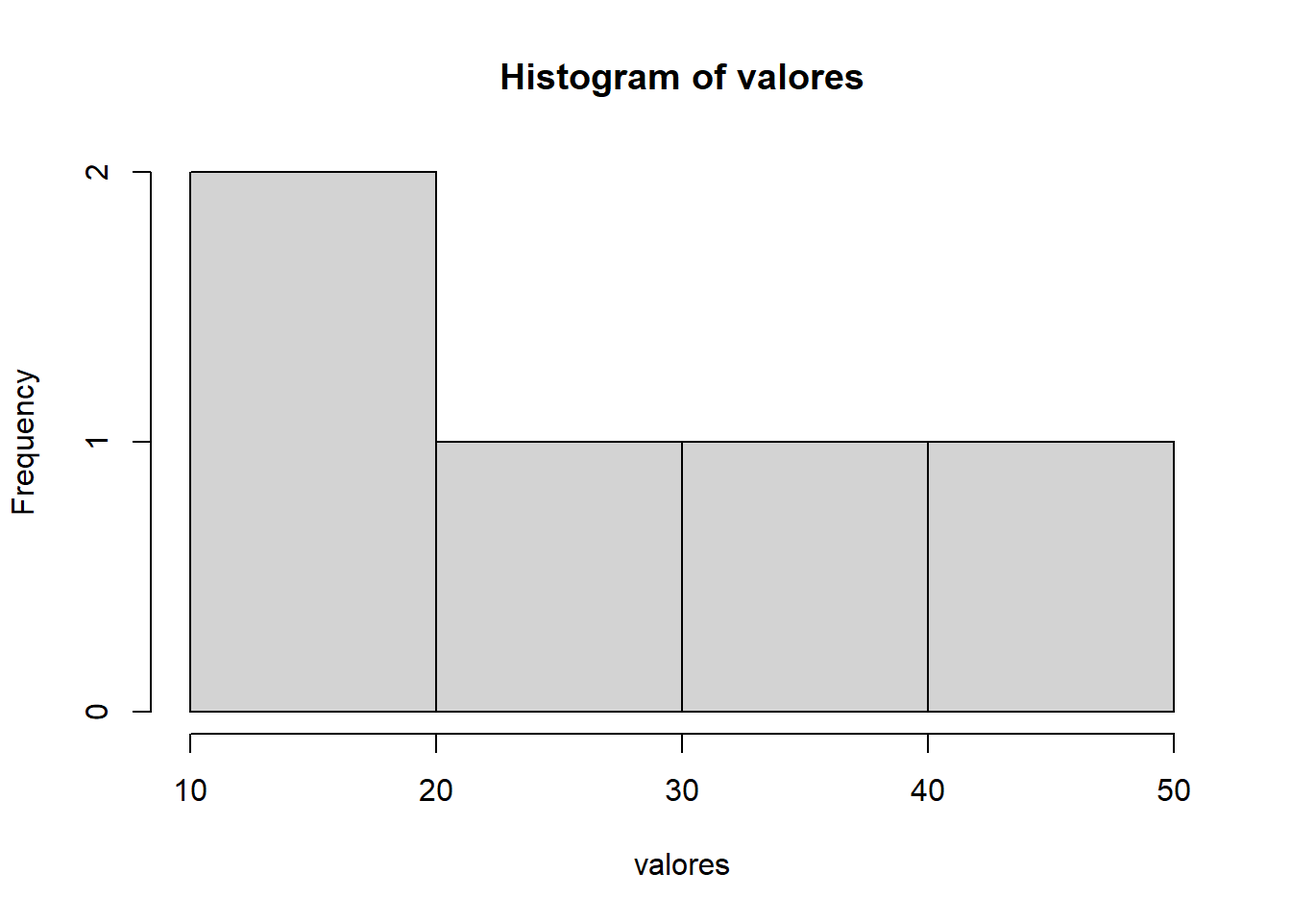
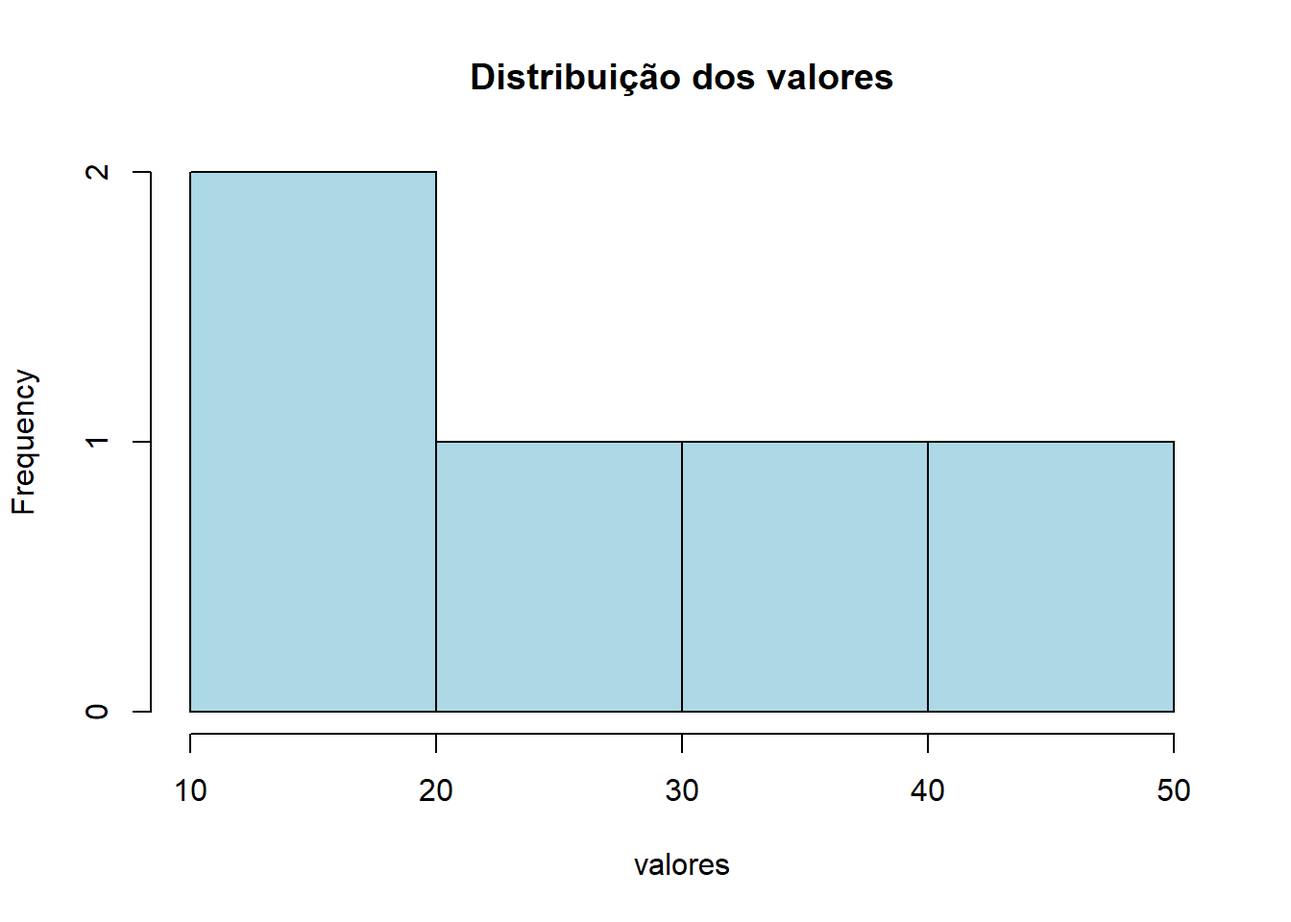
Relatório 2 - Atualizando informações finais

Changed region(s): [[0.125, 0.1875, 0.9062, 0.7812], [0.3438, 0.0625, 0.6875, 0.125]]

diff --git a/relatorio/rel02/index.html b/relatorio/rel02/index.html
@@ -88,8 +88,9 @@ pre > code.sourceCode > span > a:first-child::before { text-decoration: underlin
   <li><a href="#por-que-o-r-ficou-tão-importante" id="toc-por-que-o-r-ficou-tão-importante" class="nav-link" data-scroll-target="#por-que-o-r-ficou-tão-importante"><span class="header-section-number">3</span> POR QUE O R FICOU TÃO IMPORTANTE?</a></li>
   <li><a href="#ambiente-de-trabalho" id="toc-ambiente-de-trabalho" class="nav-link" data-scroll-target="#ambiente-de-trabalho"><span class="header-section-number">4</span> Ambiente de trabalho</a></li>
   <li><a href="#como-executar-códigos" id="toc-como-executar-códigos" class="nav-link" data-scroll-target="#como-executar-códigos"><span class="header-section-number">5</span> 💻 Como executar códigos</a></li>
-  <li><a href="#aprenda-quarto" id="toc-aprenda-quarto" class="nav-link" data-scroll-target="#aprenda-quarto"><span class="header-section-number">6</span> Aprenda Quarto</a></li>
-  <li><a href="#referências" id="toc-referências" class="nav-link" data-scroll-target="#referências"><span class="header-section-number">7</span> 📖 Referências</a></li>
+  <li><a href="#estruturas-e-tipos-de-dados" id="toc-estruturas-e-tipos-de-dados" class="nav-link" data-scroll-target="#estruturas-e-tipos-de-dados"><span class="header-section-number">6</span> 🛠 ESTRUTURAS E TIPOS DE DADOS</a></li>
+  <li><a href="#aprenda-quarto" id="toc-aprenda-quarto" class="nav-link" data-scroll-target="#aprenda-quarto"><span class="header-section-number">7</span> Aprenda Quarto</a></li>
+  <li><a href="#referências" id="toc-referências" class="nav-link" data-scroll-target="#referências"><span class="header-section-number">8</span> 📖 Referências</a></li>
   </ul>
 </nav>
 </div>
@@ -123,7 +124,7 @@ pre > code.sourceCode > span > a:first-child::before { text-decoration: underlin
     <div>
     <div class="quarto-title-meta-heading">Data de Publicação</div>
     <div class="quarto-title-meta-contents">
-      <p class="date">01/04/2026, 21:23</p>
+      <p class="date">01/04/2026, 22:32</p>
     </div>
   </div>
   
@@ -196,12 +197,76 @@ pre > code.sourceCode > span > a:first-child::before { text-decoration: underlin
 </div>
 <p>5.3 O código acima cria um vetor numérico de tamanho 5 e calcula a sua média, demonstrando uma das funções básicas da linguagem R.</p>
 </section>
-<section id="aprenda-quarto" class="level2" data-number="6">
-<h2 data-number="6" class="anchored" data-anchor-id="aprenda-quarto"><span class="header-section-number">6</span> Aprenda Quarto</h2>
+<section id="estruturas-e-tipos-de-dados" class="level2" data-number="6">
+<h2 data-number="6" class="anchored" data-anchor-id="estruturas-e-tipos-de-dados"><span class="header-section-number">6</span> 🛠 ESTRUTURAS E TIPOS DE DADOS</h2>
+<p>6.1 Para programar em R, é fundamental entender como a linguagem organiza as informações. Os principais tipos de dados “atômicos” são:</p>
+<ul>
+<li>Numeric: Números decimais (ex: 10.5);</li>
+<li>Integer: Números inteiros (ex: 10L);</li>
+<li>Logical: Valores booleanos (TRUE ou FALSE);</li>
+<li>Character: Textos ou strings (ex: “Olá Mundo”);</li>
+</ul>
+<p>6.2 Além dos tipos simples, o R utiliza estruturas complexas para armazenar conjuntos de dados:</p>
+<ul>
+<li>Vector: Sequência de elementos do mesmo tipo;</li>
+<li>Matrix: Tabela bidimensional com elementos do mesmo tipo;</li>
+<li>Data Frame: Tabela onde cada coluna pode ter um tipo diferente (mais usada em Ciência de Dados);</li>
+<li>List: Coleção de objetos que podem ter diferentes tipos e tamanhos.</li>
+</ul>
+<div class="cell">
+<details class="code-fold">
+<summary>Código</summary>
+<div class="code-copy-outer-scaffold"><div class="sourceCode cell-code" id="cb3"><pre class="sourceCode r code-with-copy"><code class="sourceCode r"><span id="cb3-1"><a href="#cb3-1" aria-hidden="true" tabindex="-1"></a><span class="fu">library</span>(leem)</span>
+<span id="cb3-2"><a href="#cb3-2" aria-hidden="true" tabindex="-1"></a></span>
+<span id="cb3-3"><a href="#cb3-3" aria-hidden="true" tabindex="-1"></a>valores <span class="ot">&lt;-</span> <span class="fu">c</span>(<span class="dv">10</span>,<span class="dv">20</span>,<span class="dv">30</span>,<span class="dv">40</span>,<span class="dv">50</span>)</span>
+<span id="cb3-4"><a href="#cb3-4" aria-hidden="true" tabindex="-1"></a></span>
+<span id="cb3-5"><a href="#cb3-5" aria-hidden="true" tabindex="-1"></a>valores <span class="sc">|&gt;</span></span>
+<span id="cb3-6"><a href="#cb3-6" aria-hidden="true" tabindex="-1"></a>  <span class="fu">new_leem</span>(<span class="at">variable =</span> <span class="dv">2</span>) <span class="sc">|&gt;</span></span>
+<span id="cb3-7"><a href="#cb3-7" aria-hidden="true" tabindex="-1"></a>  <span class="fu">tabfreq</span>()</span></code></pre></div><button title="Copiar para a área de transferência" class="code-copy-button"><i class="bi"></i></button></div>
+</details>
+<div class="cell-output cell-output-stdout">
+<pre><code>
+Table of frequency 
+Type of variable: continuous
+
+       Classes Fi PM  Fr Fac1 Fac2 Fp Fac1p Fac2p
+1 -10 |---  30  2 10 0.4    2    5 40    40   100
+2  30 |---  70  3 50 0.6    5    3 60   100    60
+
+============================================== 
+Classes: Grouping of classes 
+Fi: Absolute frequency 
+PM: Midpoint 
+Fr: Relative frequency 
+Fac1: Cumulative frequency (below) 
+Fac2: Cumulative frequency (above) 
+Fp: Percentage frequency 
+Fac1p: Cumulative percentage frequency (below) 
+Fac2p: Cumulative percentage frequency (above) </code></pre>
+</div>
+<details class="code-fold">
+<summary>Código</summary>
+<div class="code-copy-outer-scaffold"><div class="sourceCode cell-code" id="cb5"><pre class="sourceCode r code-with-copy"><code class="sourceCode r"><span id="cb5-1"><a href="#cb5-1" aria-hidden="true" tabindex="-1"></a><span class="fu">hist</span>(valores, <span class="at">main =</span> <span class="st">"Distribuição dos valores"</span>, <span class="at">col =</span> <span class="st">"lightblue"</span>)</span></code></pre></div><button title="Copiar para a área de transferência" class="code-copy-button"><i class="bi"></i></button></div>
+</details>
+<div class="cell-output-display">
+<div>
+<figure class="figure">
+<p><img src="index_files/figure-html/unnamed-chunk-2-1.png" class="img-fluid figure-img" width="672"></p>
+</figure>
+</div>
+</div>
+</div>
+</section>
+<section id="aprenda-quarto" class="level2" data-number="7">
+<h2 data-number="7" class="anchored" data-anchor-id="aprenda-quarto"><span class="header-section-number">7</span> Aprenda Quarto</h2>
 <p>Acesse <a href="https://quarto.org/">Quarto</a>.</p>
 </section>
-<section id="referências" class="level2" data-number="7">
-<h2 data-number="7" class="anchored" data-anchor-id="referências"><span class="header-section-number">7</span> 📖 Referências</h2>
+<section id="referências" class="level2" data-number="8">
+<h2 data-number="8" class="anchored" data-anchor-id="referências"><span class="header-section-number">8</span> 📖 Referências</h2>
+<ul>
+<li>[1] <em>The R Project for Statistical Computing</em>. Disponível em: <a href="https://www.r-project.org/" class="uri">https://www.r-project.org/</a>.</li>
+<li>[2] <em>RStudio Official site</em>. Disponível em: <a href="https://posit.co/download/rstudio-desktop/" class="uri">https://posit.co/download/rstudio-desktop/</a>.</li>
+</ul>
 <!-- -->
 
 </section>
@@ -659,100 +724,135 @@ pre > code.sourceCode > span > a:first-child::before { text-decoration: underlin
     }
   });
   </script><div class="modal fade" id="quarto-embedded-source-code-modal" tabindex="-1" aria-labelledby="quarto-embedded-source-code-modal-label" aria-hidden="true"><div class="modal-dialog modal-dialog-scrollable"><div class="modal-content"><div class="modal-header"><h5 class="modal-title" id="quarto-embedded-source-code-modal-label">Código fonte</h5><button class="btn-close" data-bs-dismiss="modal"></button></div><div class="modal-body"><div class="">
-<div class="code-copy-outer-scaffold"><div class="sourceCode" id="cb3" data-shortcodes="false"><pre class="sourceCode markdown code-with-copy"><code class="sourceCode markdown"><span id="cb3-1"><a href="#cb3-1" aria-hidden="true" tabindex="-1"></a><span class="co">---</span></span>
-<span id="cb3-2"><a href="#cb3-2" aria-hidden="true" tabindex="-1"></a><span class="co"># Só mude aqui!!!!</span></span>
-<span id="cb3-3"><a href="#cb3-3" aria-hidden="true" tabindex="-1"></a><span class="an">author:</span><span class="co"> "Igor e Lucas"</span></span>
-<span id="cb3-4"><a href="#cb3-4" aria-hidden="true" tabindex="-1"></a><span class="an">title:</span><span class="co"> "Relatório sobre a linguagem R"</span></span>
-<span id="cb3-5"><a href="#cb3-5" aria-hidden="true" tabindex="-1"></a><span class="an">bibliography:</span><span class="co"> referencias.bib</span></span>
-<span id="cb3-6"><a href="#cb3-6" aria-hidden="true" tabindex="-1"></a><span class="co"># A partir daqui nao faca alteracoes!!!!!</span></span>
-<span id="cb3-7"><a href="#cb3-7" aria-hidden="true" tabindex="-1"></a><span class="an">link-citations:</span><span class="co"> true</span></span>
-<span id="cb3-8"><a href="#cb3-8" aria-hidden="true" tabindex="-1"></a><span class="an">csl:</span><span class="co"> associacao-brasileira-de-normas-tecnicas-ipea.csl</span></span>
-<span id="cb3-9"><a href="#cb3-9" aria-hidden="true" tabindex="-1"></a><span class="an">subtitle:</span><span class="co"> "&lt;a href='https://bendeivide.github.io/courses/epaec/' target='_blank'&gt;Estatística e Probabilidade&lt;/a&gt; &lt;/br&gt; &lt;a href='https://bendeivide.github.io' target='_blank'&gt;Prof. Ben Dêivide (DEFIM/CAP/UFSJ)&lt;/a&gt;"</span></span>
-<span id="cb3-10"><a href="#cb3-10" aria-hidden="true" tabindex="-1"></a><span class="an">include-before-body:</span><span class="co"> header.html</span></span>
-<span id="cb3-11"><a href="#cb3-11" aria-hidden="true" tabindex="-1"></a><span class="an">date:</span><span class="co"> now</span></span>
-<span id="cb3-12"><a href="#cb3-12" aria-hidden="true" tabindex="-1"></a><span class="an">date-format:</span><span class="co"> "DD/MM/YYYY, HH:mm"</span></span>
-<span id="cb3-13"><a href="#cb3-13" aria-hidden="true" tabindex="-1"></a><span class="an">lang:</span><span class="co"> pt-BR</span></span>
-<span id="cb3-14"><a href="#cb3-14" aria-hidden="true" tabindex="-1"></a><span class="an">format:</span></span>
-<span id="cb3-15"><a href="#cb3-15" aria-hidden="true" tabindex="-1"></a><span class="co">  html:</span></span>
-<span id="cb3-16"><a href="#cb3-16" aria-hidden="true" tabindex="-1"></a><span class="co">    toc: true</span></span>
-<span id="cb3-17"><a href="#cb3-17" aria-hidden="true" tabindex="-1"></a><span class="co">    number-sections: true</span></span>
-<span id="cb3-18"><a href="#cb3-18" aria-hidden="true" tabindex="-1"></a><span class="co">    theme: bootstrap</span></span>
-<span id="cb3-19"><a href="#cb3-19" aria-hidden="true" tabindex="-1"></a><span class="co">    #css: styles.css</span></span>
-<span id="cb3-20"><a href="#cb3-20" aria-hidden="true" tabindex="-1"></a><span class="co">    code-fold: true</span></span>
-<span id="cb3-21"><a href="#cb3-21" aria-hidden="true" tabindex="-1"></a><span class="co">    code-tools: true</span></span>
-<span id="cb3-22"><a href="#cb3-22" aria-hidden="true" tabindex="-1"></a><span class="an">execute:</span></span>
-<span id="cb3-23"><a href="#cb3-23" aria-hidden="true" tabindex="-1"></a><span class="co">  echo: true</span></span>
-<span id="cb3-24"><a href="#cb3-24" aria-hidden="true" tabindex="-1"></a><span class="co">  warning: false</span></span>
-<span id="cb3-25"><a href="#cb3-25" aria-hidden="true" tabindex="-1"></a><span class="co">  message: false</span></span>
-<span id="cb3-26"><a href="#cb3-26" aria-hidden="true" tabindex="-1"></a><span class="co">---</span></span>
-<span id="cb3-27"><a href="#cb3-27" aria-hidden="true" tabindex="-1"></a></span>
-<span id="cb3-28"><a href="#cb3-28" aria-hidden="true" tabindex="-1"></a></span>
-<span id="cb3-29"><a href="#cb3-29" aria-hidden="true" tabindex="-1"></a><span class="fu">## 📌 Introdução</span></span>
-<span id="cb3-30"><a href="#cb3-30" aria-hidden="true" tabindex="-1"></a></span>
-<span id="cb3-31"><a href="#cb3-31" aria-hidden="true" tabindex="-1"></a>A linguagem <span class="co">[</span><span class="ot">R</span><span class="co">](https://www.r-project.org/)</span> foi criada em 1993, por Ross Ihaka e Robert Gentleman na <span class="co">[</span><span class="ot">University of Auckland</span><span class="co">](https://www.auckland.ac.nz/en.html)</span>.</span>
-<span id="cb3-32"><a href="#cb3-32" aria-hidden="true" tabindex="-1"></a></span>
-<span id="cb3-33"><a href="#cb3-33" aria-hidden="true" tabindex="-1"></a><span class="fu">## ❓ POR QUAL MOTIVO A LINGUAGEM R FOI CRIADA?</span></span>
-<span id="cb3-34"><a href="#cb3-34" aria-hidden="true" tabindex="-1"></a></span>
-<span id="cb3-35"><a href="#cb3-35" aria-hidden="true" tabindex="-1"></a>2 O principal objetivo era criar uma linguagem para:</span>
-<span id="cb3-36"><a href="#cb3-36" aria-hidden="true" tabindex="-1"></a></span>
-<span id="cb3-37"><a href="#cb3-37" aria-hidden="true" tabindex="-1"></a><span class="ss">- </span>A área de estatística e análise de dados;</span>
-<span id="cb3-38"><a href="#cb3-38" aria-hidden="true" tabindex="-1"></a><span class="ss">- </span>De fácil uso tanto para pesquisadores quanto para estudantes;</span>
-<span id="cb3-39"><a href="#cb3-39" aria-hidden="true" tabindex="-1"></a><span class="ss">- </span>E ser uma linguagem gratuita e de código aberto;</span>
-<span id="cb3-40"><a href="#cb3-40" aria-hidden="true" tabindex="-1"></a></span>
-<span id="cb3-41"><a href="#cb3-41" aria-hidden="true" tabindex="-1"></a>2.1 Antes de sua criação, muitos softwares estatísticos eram caros e fechados, como a linguagem <span class="co">[</span><span class="ot">S</span><span class="co">]</span>(https://en.wikipedia.org/wiki/S_(programming_language))     (que inspirou o desenvolvimento da linguagem R). </span>
-<span id="cb3-42"><a href="#cb3-42" aria-hidden="true" tabindex="-1"></a></span>
-<span id="cb3-43"><a href="#cb3-43" aria-hidden="true" tabindex="-1"></a>2.2 Logo o R surgiu como uma alternativa mais flexível e bastante importante que acompanhou as demandas científicas modernas.</span>
-<span id="cb3-44"><a href="#cb3-44" aria-hidden="true" tabindex="-1"></a></span>
-<span id="cb3-45"><a href="#cb3-45" aria-hidden="true" tabindex="-1"></a><span class="fu">## POR QUE O R FICOU TÃO IMPORTANTE?</span></span>
-<span id="cb3-46"><a href="#cb3-46" aria-hidden="true" tabindex="-1"></a></span>
-<span id="cb3-47"><a href="#cb3-47" aria-hidden="true" tabindex="-1"></a>3.1 Hoje em dia com o grande avanço da tecnologia e da inteligência artificial, a linguagem R está sendo muito usada para: </span>
-<span id="cb3-48"><a href="#cb3-48" aria-hidden="true" tabindex="-1"></a></span>
-<span id="cb3-49"><a href="#cb3-49" aria-hidden="true" tabindex="-1"></a><span class="ss">- </span>Machine Learning;</span>
-<span id="cb3-50"><a href="#cb3-50" aria-hidden="true" tabindex="-1"></a><span class="ss">- </span>Ciência de dados e estatística;</span>
-<span id="cb3-51"><a href="#cb3-51" aria-hidden="true" tabindex="-1"></a><span class="ss">- </span>Pesquisas e práticas acadêmicas;</span>
-<span id="cb3-52"><a href="#cb3-52" aria-hidden="true" tabindex="-1"></a></span>
-<span id="cb3-53"><a href="#cb3-53" aria-hidden="true" tabindex="-1"></a>3.2 A linguagem R conseguiu se adaptar de maneira rápida ao cenário atual graças às suas milhares de bibliotecas, bem como às suas capacidades de geração gráfica e análise.</span>
-<span id="cb3-54"><a href="#cb3-54" aria-hidden="true" tabindex="-1"></a></span>
-<span id="cb3-55"><a href="#cb3-55" aria-hidden="true" tabindex="-1"></a></span>
-<span id="cb3-56"><a href="#cb3-56" aria-hidden="true" tabindex="-1"></a><span class="fu">## Ambiente de trabalho</span></span>
-<span id="cb3-57"><a href="#cb3-57" aria-hidden="true" tabindex="-1"></a></span>
-<span id="cb3-58"><a href="#cb3-58" aria-hidden="true" tabindex="-1"></a>4.1 A linguagem R é o sistema responsável por fazer os cálculos, manipular os dados e apresenta as bibliotecas.</span>
-<span id="cb3-59"><a href="#cb3-59" aria-hidden="true" tabindex="-1"></a></span>
-<span id="cb3-60"><a href="#cb3-60" aria-hidden="true" tabindex="-1"></a>4.2 Já o RStudio é o ambiente de trabalho conhecido como IDE, que oferece uma interface mais organizada e separada.</span>
-<span id="cb3-61"><a href="#cb3-61" aria-hidden="true" tabindex="-1"></a></span>
-<span id="cb3-62"><a href="#cb3-62" aria-hidden="true" tabindex="-1"></a><span class="al">![Figura 1 - Imagem do RStudio](Imagem para a Introdução do R.png)</span> </span>
-<span id="cb3-63"><a href="#cb3-63" aria-hidden="true" tabindex="-1"></a></span>
-<span id="cb3-64"><a href="#cb3-64" aria-hidden="true" tabindex="-1"></a>4.3 Na figura 1, é possível observar as divisões por quadrantes no RStudio, no qual: </span>
-<span id="cb3-65"><a href="#cb3-65" aria-hidden="true" tabindex="-1"></a></span>
-<span id="cb3-66"><a href="#cb3-66" aria-hidden="true" tabindex="-1"></a>1) Corresponde a área de criação dos scripts;</span>
-<span id="cb3-67"><a href="#cb3-67" aria-hidden="true" tabindex="-1"></a>2) Representa o painel Environment, onde são exibidas as variáveis carregadas na sessão;</span>
-<span id="cb3-68"><a href="#cb3-68" aria-hidden="true" tabindex="-1"></a>3) Indica o console, a onde pode ser executado comandos de maneira direta;</span>
-<span id="cb3-69"><a href="#cb3-69" aria-hidden="true" tabindex="-1"></a>4) Corresponde ao painel de Viewer,Packages,Help,Files,utilizados para a instalação de pacotes, gerenciamento de arquivos e visualização dos dados.</span>
-<span id="cb3-70"><a href="#cb3-70" aria-hidden="true" tabindex="-1"></a></span>
-<span id="cb3-71"><a href="#cb3-71" aria-hidden="true" tabindex="-1"></a></span>
-<span id="cb3-72"><a href="#cb3-72" aria-hidden="true" tabindex="-1"></a><span class="fu">## 💻 Como executar códigos</span></span>
-<span id="cb3-73"><a href="#cb3-73" aria-hidden="true" tabindex="-1"></a></span>
-<span id="cb3-74"><a href="#cb3-74" aria-hidden="true" tabindex="-1"></a>5.1 Os códigos na linguagem R podem ser executados tanto por scripts quanto pelo console no RStudio.</span>
-<span id="cb3-75"><a href="#cb3-75" aria-hidden="true" tabindex="-1"></a></span>
-<span id="cb3-76"><a href="#cb3-76" aria-hidden="true" tabindex="-1"></a>5.2 A seguir, será representado um código simples:</span>
-<span id="cb3-77"><a href="#cb3-77" aria-hidden="true" tabindex="-1"></a></span>
-<span id="cb3-80"><a href="#cb3-80" aria-hidden="true" tabindex="-1"></a><span class="in">```{r}</span></span>
-<span id="cb3-81"><a href="#cb3-81" aria-hidden="true" tabindex="-1"></a><span class="fu">library</span>(leem)</span>
-<span id="cb3-82"><a href="#cb3-82" aria-hidden="true" tabindex="-1"></a></span>
-<span id="cb3-83"><a href="#cb3-83" aria-hidden="true" tabindex="-1"></a>x <span class="ot">&lt;-</span> <span class="fu">c</span>(<span class="dv">1</span>, <span class="dv">2</span>, <span class="dv">3</span>, <span class="dv">4</span>, <span class="dv">5</span>)</span>
-<span id="cb3-84"><a href="#cb3-84" aria-hidden="true" tabindex="-1"></a><span class="fu">mean</span>(x)</span>
-<span id="cb3-85"><a href="#cb3-85" aria-hidden="true" tabindex="-1"></a></span>
-<span id="cb3-86"><a href="#cb3-86" aria-hidden="true" tabindex="-1"></a><span class="in">```</span></span>
-<span id="cb3-87"><a href="#cb3-87" aria-hidden="true" tabindex="-1"></a></span>
-<span id="cb3-88"><a href="#cb3-88" aria-hidden="true" tabindex="-1"></a>5.3 O código acima cria um vetor numérico de tamanho 5 e calcula a sua média, demonstrando uma das funções básicas da linguagem R.</span>
-<span id="cb3-89"><a href="#cb3-89" aria-hidden="true" tabindex="-1"></a></span>
-<span id="cb3-90"><a href="#cb3-90" aria-hidden="true" tabindex="-1"></a></span>
-<span id="cb3-91"><a href="#cb3-91" aria-hidden="true" tabindex="-1"></a></span>
-<span id="cb3-92"><a href="#cb3-92" aria-hidden="true" tabindex="-1"></a><span class="fu">## Aprenda Quarto</span></span>
-<span id="cb3-93"><a href="#cb3-93" aria-hidden="true" tabindex="-1"></a></span>
-<span id="cb3-94"><a href="#cb3-94" aria-hidden="true" tabindex="-1"></a>Acesse <span class="co">[</span><span class="ot">Quarto</span><span class="co">](https://quarto.org/)</span>.</span>
-<span id="cb3-95"><a href="#cb3-95" aria-hidden="true" tabindex="-1"></a></span>
-<span id="cb3-96"><a href="#cb3-96" aria-hidden="true" tabindex="-1"></a><span class="fu">## 📖 Referências</span></span>
+<div class="code-copy-outer-scaffold"><div class="sourceCode" id="cb6" data-shortcodes="false"><pre class="sourceCode markdown code-with-copy"><code class="sourceCode markdown"><span id="cb6-1"><a href="#cb6-1" aria-hidden="true" tabindex="-1"></a><span class="co">---</span></span>
+<span id="cb6-2"><a href="#cb6-2" aria-hidden="true" tabindex="-1"></a><span class="co"># Só mude aqui!!!!</span></span>
+<span id="cb6-3"><a href="#cb6-3" aria-hidden="true" tabindex="-1"></a><span class="an">author:</span><span class="co"> "Igor e Lucas"</span></span>
+<span id="cb6-4"><a href="#cb6-4" aria-hidden="true" tabindex="-1"></a><span class="an">title:</span><span class="co"> "Relatório sobre a linguagem R"</span></span>
+<span id="cb6-5"><a href="#cb6-5" aria-hidden="true" tabindex="-1"></a><span class="an">bibliography:</span><span class="co"> referencias.bib</span></span>
+<span id="cb6-6"><a href="#cb6-6" aria-hidden="true" tabindex="-1"></a><span class="co"># A partir daqui nao faca alteracoes!!!!!</span></span>
+<span id="cb6-7"><a href="#cb6-7" aria-hidden="true" tabindex="-1"></a><span class="an">link-citations:</span><span class="co"> true</span></span>
+<span id="cb6-8"><a href="#cb6-8" aria-hidden="true" tabindex="-1"></a><span class="an">csl:</span><span class="co"> associacao-brasileira-de-normas-tecnicas-ipea.csl</span></span>
+<span id="cb6-9"><a href="#cb6-9" aria-hidden="true" tabindex="-1"></a><span class="an">subtitle:</span><span class="co"> "&lt;a href='https://bendeivide.github.io/courses/epaec/' target='_blank'&gt;Estatística e Probabilidade&lt;/a&gt; &lt;/br&gt; &lt;a href='https://bendeivide.github.io' target='_blank'&gt;Prof. Ben Dêivide (DEFIM/CAP/UFSJ)&lt;/a&gt;"</span></span>
+<span id="cb6-10"><a href="#cb6-10" aria-hidden="true" tabindex="-1"></a><span class="an">include-before-body:</span><span class="co"> header.html</span></span>
+<span id="cb6-11"><a href="#cb6-11" aria-hidden="true" tabindex="-1"></a><span class="an">date:</span><span class="co"> now</span></span>
+<span id="cb6-12"><a href="#cb6-12" aria-hidden="true" tabindex="-1"></a><span class="an">date-format:</span><span class="co"> "DD/MM/YYYY, HH:mm"</span></span>
+<span id="cb6-13"><a href="#cb6-13" aria-hidden="true" tabindex="-1"></a><span class="an">lang:</span><span class="co"> pt-BR</span></span>
+<span id="cb6-14"><a href="#cb6-14" aria-hidden="true" tabindex="-1"></a><span class="an">format:</span></span>
+<span id="cb6-15"><a href="#cb6-15" aria-hidden="true" tabindex="-1"></a><span class="co">  html:</span></span>
+<span id="cb6-16"><a href="#cb6-16" aria-hidden="true" tabindex="-1"></a><span class="co">    toc: true</span></span>
+<span id="cb6-17"><a href="#cb6-17" aria-hidden="true" tabindex="-1"></a><span class="co">    number-sections: true</span></span>
+<span id="cb6-18"><a href="#cb6-18" aria-hidden="true" tabindex="-1"></a><span class="co">    theme: bootstrap</span></span>
+<span id="cb6-19"><a href="#cb6-19" aria-hidden="true" tabindex="-1"></a><span class="co">    #css: styles.css</span></span>
+<span id="cb6-20"><a href="#cb6-20" aria-hidden="true" tabindex="-1"></a><span class="co">    code-fold: true</span></span>
+<span id="cb6-21"><a href="#cb6-21" aria-hidden="true" tabindex="-1"></a><span class="co">    code-tools: true</span></span>
+<span id="cb6-22"><a href="#cb6-22" aria-hidden="true" tabindex="-1"></a><span class="an">execute:</span></span>
+<span id="cb6-23"><a href="#cb6-23" aria-hidden="true" tabindex="-1"></a><span class="co">  echo: true</span></span>
+<span id="cb6-24"><a href="#cb6-24" aria-hidden="true" tabindex="-1"></a><span class="co">  warning: false</span></span>
+<span id="cb6-25"><a href="#cb6-25" aria-hidden="true" tabindex="-1"></a><span class="co">  message: false</span></span>
+<span id="cb6-26"><a href="#cb6-26" aria-hidden="true" tabindex="-1"></a><span class="co">---</span></span>
+<span id="cb6-27"><a href="#cb6-27" aria-hidden="true" tabindex="-1"></a></span>
+<span id="cb6-28"><a href="#cb6-28" aria-hidden="true" tabindex="-1"></a></span>
+<span id="cb6-29"><a href="#cb6-29" aria-hidden="true" tabindex="-1"></a><span class="fu">## 📌 Introdução</span></span>
+<span id="cb6-30"><a href="#cb6-30" aria-hidden="true" tabindex="-1"></a></span>
+<span id="cb6-31"><a href="#cb6-31" aria-hidden="true" tabindex="-1"></a>A linguagem <span class="co">[</span><span class="ot">R</span><span class="co">](https://www.r-project.org/)</span> foi criada em 1993, por Ross Ihaka e Robert Gentleman na <span class="co">[</span><span class="ot">University of Auckland</span><span class="co">](https://www.auckland.ac.nz/en.html)</span>.</span>
+<span id="cb6-32"><a href="#cb6-32" aria-hidden="true" tabindex="-1"></a></span>
+<span id="cb6-33"><a href="#cb6-33" aria-hidden="true" tabindex="-1"></a><span class="fu">## ❓ POR QUAL MOTIVO A LINGUAGEM R FOI CRIADA?</span></span>
+<span id="cb6-34"><a href="#cb6-34" aria-hidden="true" tabindex="-1"></a></span>
+<span id="cb6-35"><a href="#cb6-35" aria-hidden="true" tabindex="-1"></a>2 O principal objetivo era criar uma linguagem para:</span>
+<span id="cb6-36"><a href="#cb6-36" aria-hidden="true" tabindex="-1"></a></span>
+<span id="cb6-37"><a href="#cb6-37" aria-hidden="true" tabindex="-1"></a><span class="ss">- </span>A área de estatística e análise de dados;</span>
+<span id="cb6-38"><a href="#cb6-38" aria-hidden="true" tabindex="-1"></a><span class="ss">- </span>De fácil uso tanto para pesquisadores quanto para estudantes;</span>
+<span id="cb6-39"><a href="#cb6-39" aria-hidden="true" tabindex="-1"></a><span class="ss">- </span>E ser uma linguagem gratuita e de código aberto;</span>
+<span id="cb6-40"><a href="#cb6-40" aria-hidden="true" tabindex="-1"></a></span>
+<span id="cb6-41"><a href="#cb6-41" aria-hidden="true" tabindex="-1"></a>2.1 Antes de sua criação, muitos softwares estatísticos eram caros e fechados, como a linguagem <span class="co">[</span><span class="ot">S</span><span class="co">]</span>(https://en.wikipedia.org/wiki/S_(programming_language))     (que inspirou o desenvolvimento da linguagem R). </span>
+<span id="cb6-42"><a href="#cb6-42" aria-hidden="true" tabindex="-1"></a></span>
+<span id="cb6-43"><a href="#cb6-43" aria-hidden="true" tabindex="-1"></a>2.2 Logo o R surgiu como uma alternativa mais flexível e bastante importante que acompanhou as demandas científicas modernas.</span>
+<span id="cb6-44"><a href="#cb6-44" aria-hidden="true" tabindex="-1"></a></span>
+<span id="cb6-45"><a href="#cb6-45" aria-hidden="true" tabindex="-1"></a><span class="fu">## POR QUE O R FICOU TÃO IMPORTANTE?</span></span>
+<span id="cb6-46"><a href="#cb6-46" aria-hidden="true" tabindex="-1"></a></span>
+<span id="cb6-47"><a href="#cb6-47" aria-hidden="true" tabindex="-1"></a>3.1 Hoje em dia com o grande avanço da tecnologia e da inteligência artificial, a linguagem R está sendo muito usada para: </span>
+<span id="cb6-48"><a href="#cb6-48" aria-hidden="true" tabindex="-1"></a></span>
+<span id="cb6-49"><a href="#cb6-49" aria-hidden="true" tabindex="-1"></a><span class="ss">- </span>Machine Learning;</span>
+<span id="cb6-50"><a href="#cb6-50" aria-hidden="true" tabindex="-1"></a><span class="ss">- </span>Ciência de dados e estatística;</span>
+<span id="cb6-51"><a href="#cb6-51" aria-hidden="true" tabindex="-1"></a><span class="ss">- </span>Pesquisas e práticas acadêmicas;</span>
+<span id="cb6-52"><a href="#cb6-52" aria-hidden="true" tabindex="-1"></a></span>
+<span id="cb6-53"><a href="#cb6-53" aria-hidden="true" tabindex="-1"></a>3.2 A linguagem R conseguiu se adaptar de maneira rápida ao cenário atual graças às suas milhares de bibliotecas, bem como às suas capacidades de geração gráfica e análise.</span>
+<span id="cb6-54"><a href="#cb6-54" aria-hidden="true" tabindex="-1"></a></span>
+<span id="cb6-55"><a href="#cb6-55" aria-hidden="true" tabindex="-1"></a></span>
+<span id="cb6-56"><a href="#cb6-56" aria-hidden="true" tabindex="-1"></a><span class="fu">## Ambiente de trabalho</span></span>
+<span id="cb6-57"><a href="#cb6-57" aria-hidden="true" tabindex="-1"></a></span>
+<span id="cb6-58"><a href="#cb6-58" aria-hidden="true" tabindex="-1"></a>4.1 A linguagem R é o sistema responsável por fazer os cálculos, manipular os dados e apresenta as bibliotecas.</span>
+<span id="cb6-59"><a href="#cb6-59" aria-hidden="true" tabindex="-1"></a></span>
+<span id="cb6-60"><a href="#cb6-60" aria-hidden="true" tabindex="-1"></a>4.2 Já o RStudio é o ambiente de trabalho conhecido como IDE, que oferece uma interface mais organizada e separada.</span>
+<span id="cb6-61"><a href="#cb6-61" aria-hidden="true" tabindex="-1"></a></span>
+<span id="cb6-62"><a href="#cb6-62" aria-hidden="true" tabindex="-1"></a><span class="al">![Figura 1 - Imagem do RStudio](Imagem para a Introdução do R.png)</span> </span>
+<span id="cb6-63"><a href="#cb6-63" aria-hidden="true" tabindex="-1"></a></span>
+<span id="cb6-64"><a href="#cb6-64" aria-hidden="true" tabindex="-1"></a>4.3 Na figura 1, é possível observar as divisões por quadrantes no RStudio, no qual: </span>
+<span id="cb6-65"><a href="#cb6-65" aria-hidden="true" tabindex="-1"></a></span>
+<span id="cb6-66"><a href="#cb6-66" aria-hidden="true" tabindex="-1"></a>1) Corresponde a área de criação dos scripts;</span>
+<span id="cb6-67"><a href="#cb6-67" aria-hidden="true" tabindex="-1"></a>2) Representa o painel Environment, onde são exibidas as variáveis carregadas na sessão;</span>
+<span id="cb6-68"><a href="#cb6-68" aria-hidden="true" tabindex="-1"></a>3) Indica o console, a onde pode ser executado comandos de maneira direta;</span>
+<span id="cb6-69"><a href="#cb6-69" aria-hidden="true" tabindex="-1"></a>4) Corresponde ao painel de Viewer,Packages,Help,Files,utilizados para a instalação de pacotes, gerenciamento de arquivos e visualização dos dados.</span>
+<span id="cb6-70"><a href="#cb6-70" aria-hidden="true" tabindex="-1"></a></span>
+<span id="cb6-71"><a href="#cb6-71" aria-hidden="true" tabindex="-1"></a></span>
+<span id="cb6-72"><a href="#cb6-72" aria-hidden="true" tabindex="-1"></a><span class="fu">## 💻 Como executar códigos</span></span>
+<span id="cb6-73"><a href="#cb6-73" aria-hidden="true" tabindex="-1"></a></span>
+<span id="cb6-74"><a href="#cb6-74" aria-hidden="true" tabindex="-1"></a>5.1 Os códigos na linguagem R podem ser executados tanto por scripts quanto pelo console no RStudio.</span>
+<span id="cb6-75"><a href="#cb6-75" aria-hidden="true" tabindex="-1"></a></span>
+<span id="cb6-76"><a href="#cb6-76" aria-hidden="true" tabindex="-1"></a>5.2 A seguir, será representado um código simples:</span>
+<span id="cb6-77"><a href="#cb6-77" aria-hidden="true" tabindex="-1"></a></span>
+<span id="cb6-80"><a href="#cb6-80" aria-hidden="true" tabindex="-1"></a><span class="in">```{r}</span></span>
+<span id="cb6-81"><a href="#cb6-81" aria-hidden="true" tabindex="-1"></a><span class="fu">library</span>(leem)</span>
+<span id="cb6-82"><a href="#cb6-82" aria-hidden="true" tabindex="-1"></a></span>
+<span id="cb6-83"><a href="#cb6-83" aria-hidden="true" tabindex="-1"></a>x <span class="ot">&lt;-</span> <span class="fu">c</span>(<span class="dv">1</span>, <span class="dv">2</span>, <span class="dv">3</span>, <span class="dv">4</span>, <span class="dv">5</span>)</span>
+<span id="cb6-84"><a href="#cb6-84" aria-hidden="true" tabindex="-1"></a><span class="fu">mean</span>(x)</span>
+<span id="cb6-85"><a href="#cb6-85" aria-hidden="true" tabindex="-1"></a></span>
+<span id="cb6-86"><a href="#cb6-86" aria-hidden="true" tabindex="-1"></a><span class="in">```</span></span>
+<span id="cb6-87"><a href="#cb6-87" aria-hidden="true" tabindex="-1"></a></span>
+<span id="cb6-88"><a href="#cb6-88" aria-hidden="true" tabindex="-1"></a>5.3 O código acima cria um vetor numérico de tamanho 5 e calcula a sua média, demonstrando uma das funções básicas da linguagem R.</span>
+<span id="cb6-89"><a href="#cb6-89" aria-hidden="true" tabindex="-1"></a></span>
+<span id="cb6-90"><a href="#cb6-90" aria-hidden="true" tabindex="-1"></a><span class="fu">## 🛠 ESTRUTURAS E TIPOS DE DADOS</span></span>
+<span id="cb6-91"><a href="#cb6-91" aria-hidden="true" tabindex="-1"></a></span>
+<span id="cb6-92"><a href="#cb6-92" aria-hidden="true" tabindex="-1"></a>6.1 Para programar em R, é fundamental entender como a linguagem organiza as</span>
+<span id="cb6-93"><a href="#cb6-93" aria-hidden="true" tabindex="-1"></a>informações. Os principais tipos de dados “atômicos” são:</span>
+<span id="cb6-94"><a href="#cb6-94" aria-hidden="true" tabindex="-1"></a></span>
+<span id="cb6-95"><a href="#cb6-95" aria-hidden="true" tabindex="-1"></a><span class="ss">- </span>Numeric: Números decimais (ex: 10.5);</span>
+<span id="cb6-96"><a href="#cb6-96" aria-hidden="true" tabindex="-1"></a><span class="ss">- </span>Integer: Números inteiros (ex: 10L);</span>
+<span id="cb6-97"><a href="#cb6-97" aria-hidden="true" tabindex="-1"></a><span class="ss">- </span>Logical: Valores booleanos (TRUE ou FALSE);</span>
+<span id="cb6-98"><a href="#cb6-98" aria-hidden="true" tabindex="-1"></a><span class="ss">- </span>Character: Textos ou strings (ex: “Olá Mundo”);</span>
+<span id="cb6-99"><a href="#cb6-99" aria-hidden="true" tabindex="-1"></a></span>
+<span id="cb6-100"><a href="#cb6-100" aria-hidden="true" tabindex="-1"></a>6.2 Além dos tipos simples, o R utiliza estruturas complexas para armazenar conjuntos</span>
+<span id="cb6-101"><a href="#cb6-101" aria-hidden="true" tabindex="-1"></a>de dados:</span>
+<span id="cb6-102"><a href="#cb6-102" aria-hidden="true" tabindex="-1"></a></span>
+<span id="cb6-103"><a href="#cb6-103" aria-hidden="true" tabindex="-1"></a><span class="ss">- </span>Vector: Sequência de elementos do mesmo tipo;</span>
+<span id="cb6-104"><a href="#cb6-104" aria-hidden="true" tabindex="-1"></a><span class="ss">- </span>Matrix: Tabela bidimensional com elementos do mesmo tipo;</span>
+<span id="cb6-105"><a href="#cb6-105" aria-hidden="true" tabindex="-1"></a><span class="ss">- </span>Data Frame: Tabela onde cada coluna pode ter um tipo diferente (mais usada em Ciência de</span>
+<span id="cb6-106"><a href="#cb6-106" aria-hidden="true" tabindex="-1"></a>Dados);</span>
+<span id="cb6-107"><a href="#cb6-107" aria-hidden="true" tabindex="-1"></a><span class="ss">- </span>List: Coleção de objetos que podem ter diferentes tipos e tamanhos.</span>
+<span id="cb6-108"><a href="#cb6-108" aria-hidden="true" tabindex="-1"></a></span>
+<span id="cb6-111"><a href="#cb6-111" aria-hidden="true" tabindex="-1"></a><span class="in">```{r}</span></span>
+<span id="cb6-112"><a href="#cb6-112" aria-hidden="true" tabindex="-1"></a><span class="fu">library</span>(leem)</span>
+<span id="cb6-113"><a href="#cb6-113" aria-hidden="true" tabindex="-1"></a></span>
+<span id="cb6-114"><a href="#cb6-114" aria-hidden="true" tabindex="-1"></a>valores <span class="ot">&lt;-</span> <span class="fu">c</span>(<span class="dv">10</span>,<span class="dv">20</span>,<span class="dv">30</span>,<span class="dv">40</span>,<span class="dv">50</span>)</span>
+<span id="cb6-115"><a href="#cb6-115" aria-hidden="true" tabindex="-1"></a></span>
+<span id="cb6-116"><a href="#cb6-116" aria-hidden="true" tabindex="-1"></a>valores <span class="sc">|&gt;</span></span>
+<span id="cb6-117"><a href="#cb6-117" aria-hidden="true" tabindex="-1"></a>  <span class="fu">new_leem</span>(<span class="at">variable =</span> <span class="dv">2</span>) <span class="sc">|&gt;</span></span>
+<span id="cb6-118"><a href="#cb6-118" aria-hidden="true" tabindex="-1"></a>  <span class="fu">tabfreq</span>()</span>
+<span id="cb6-119"><a href="#cb6-119" aria-hidden="true" tabindex="-1"></a></span>
+<span id="cb6-120"><a href="#cb6-120" aria-hidden="true" tabindex="-1"></a><span class="fu">hist</span>(valores, <span class="at">main =</span> <span class="st">"Distribuição dos valores"</span>, <span class="at">col =</span> <span class="st">"lightblue"</span>)</span>
+<span id="cb6-121"><a href="#cb6-121" aria-hidden="true" tabindex="-1"></a></span>
+<span id="cb6-122"><a href="#cb6-122" aria-hidden="true" tabindex="-1"></a><span class="in">```</span></span>
+<span id="cb6-123"><a href="#cb6-123" aria-hidden="true" tabindex="-1"></a></span>
+<span id="cb6-124"><a href="#cb6-124" aria-hidden="true" tabindex="-1"></a></span>
+<span id="cb6-125"><a href="#cb6-125" aria-hidden="true" tabindex="-1"></a><span class="fu">## Aprenda Quarto</span></span>
+<span id="cb6-126"><a href="#cb6-126" aria-hidden="true" tabindex="-1"></a></span>
+<span id="cb6-127"><a href="#cb6-127" aria-hidden="true" tabindex="-1"></a>Acesse <span class="co">[</span><span class="ot">Quarto</span><span class="co">](https://quarto.org/)</span>.</span>
+<span id="cb6-128"><a href="#cb6-128" aria-hidden="true" tabindex="-1"></a></span>
+<span id="cb6-129"><a href="#cb6-129" aria-hidden="true" tabindex="-1"></a><span class="fu">## 📖 Referências</span></span>
+<span id="cb6-130"><a href="#cb6-130" aria-hidden="true" tabindex="-1"></a></span>
+<span id="cb6-131"><a href="#cb6-131" aria-hidden="true" tabindex="-1"></a></span>
+<span id="cb6-132"><a href="#cb6-132" aria-hidden="true" tabindex="-1"></a><span class="ss">* </span><span class="co">[</span><span class="ot">1</span><span class="co">]</span> *The R Project for Statistical Computing*. Disponível em: <span class="ot">&lt;https://www.r-project.org/&gt;</span>.</span>
+<span id="cb6-133"><a href="#cb6-133" aria-hidden="true" tabindex="-1"></a><span class="ss">* </span><span class="co">[</span><span class="ot">2</span><span class="co">]</span> *RStudio Official site*. Disponível em: <span class="ot">&lt;https://posit.co/download/rstudio-desktop/&gt;</span>.</span>
 </code></pre></div><button title="Copiar para a área de transferência" class="code-copy-button" data-in-quarto-modal=""><i class="bi"></i></button></div>
 </div></div></div></div></div>
 </div> <!-- /content -->

diff --git a/relatorio/rel01/index.html b/relatorio/rel01/index.html
@@ -114,19 +114,12 @@ pre > code.sourceCode > span > a:first-child::before { text-decoration: underlin
 </div>
 <main class="content" id="quarto-document-content">
 <div class="logos" style="display: flex; justify-content: center; align-items: center; height: 200px; gap: 20px;">
-
   <a href="https://ufsj.edu.br">
-
     <img src="imagens/ufsj.png" width="220px">
-
   </a>
-
   <a href="https://ufsj.edu.br/defim">
-
     <img src="imagens/defim.png" width="220px">
-
   </a>
-
 </div>
 
 <header id="title-block-header" class="quarto-title-block default">
@@ -149,7 +142,7 @@ pre > code.sourceCode > span > a:first-child::before { text-decoration: underlin
     <div>
     <div class="quarto-title-meta-heading">Data de Publicação</div>
     <div class="quarto-title-meta-contents">
-      <p class="date">29/03/2026, 11:18</p>
+      <p class="date">01/04/2026, 22:33</p>
     </div>
   </div>
   
